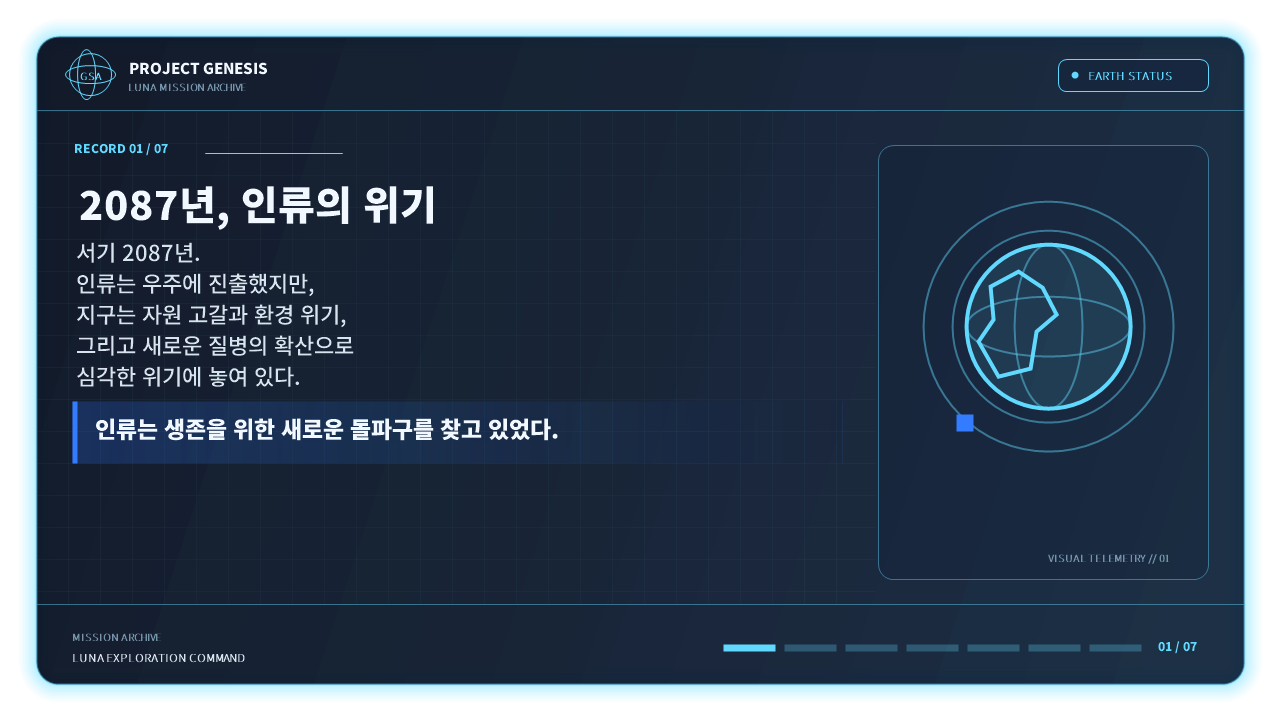
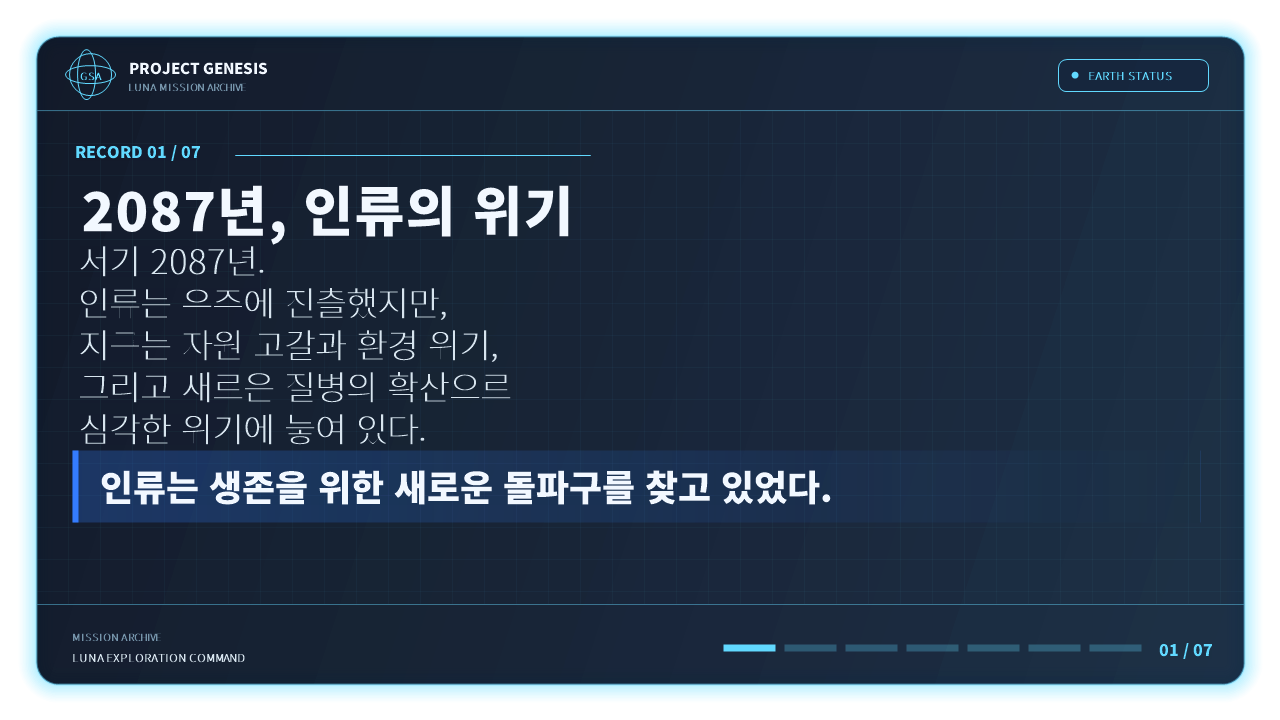
feat: enlarge Genesis story panel text

diff --git a/apps/zep-studio/story-panel-renderer.css b/apps/zep-studio/story-panel-renderer.css
@@ -2,6 +2,6 @@
 :root{--accent:#62d9ff;--accent2:#347cff;--alert:#ff7b55;--glow:rgba(77,195,255,.32);--panel:rgba(3,12,28,.93);--panel2:rgba(7,24,47,.9);--line:rgba(102,217,255,.34);--text:#f2f8ff;--muted:#9cb5c9}
 *{box-sizing:border-box}html,body{width:1280px;height:720px;margin:0;overflow:hidden;background:transparent;font-family:Pretendard,Arial,sans-serif}body{padding:36px}.story-panel{position:relative;width:1208px;height:648px;overflow:hidden;border:1px solid var(--line);border-radius:22px;background:linear-gradient(135deg,var(--panel),rgba(4,17,37,.87) 62%,var(--panel2));color:var(--text);box-shadow:0 0 0 1px rgba(147,224,255,.06) inset,0 22px 70px rgba(0,0,0,.32),0 0 42px var(--glow);isolation:isolate}.story-panel::before{content:'';position:absolute;inset:0;z-index:-2;background:linear-gradient(rgba(117,208,255,.028) 1px,transparent 1px),linear-gradient(90deg,rgba(117,208,255,.028) 1px,transparent 1px);background-size:32px 32px;mask-image:linear-gradient(90deg,#000,transparent 78%)}.story-panel::after{content:'';position:absolute;width:520px;height:520px;right:-150px;top:-210px;z-index:-1;border:1px solid rgba(105,218,255,.12);border-radius:50%;box-shadow:0 0 90px var(--glow)}.tone-red{--accent:#ff7567;--accent2:#ff334e;--alert:#ffb264;--glow:rgba(255,55,70,.28);--line:rgba(255,100,103,.38);--panel:rgba(24,4,13,.94);--panel2:rgba(40,5,16,.89)}.tone-amber{--accent:#64d8ff;--accent2:#ff9b43;--alert:#ffad52;--glow:rgba(255,143,54,.22)}.tone-mixed{--accent:#65dfff;--accent2:#ff5e55;--alert:#ff7761;--glow:rgba(80,166,255,.26)}.tone-bright{--accent:#d8f8ff;--accent2:#67caff;--alert:#fff;--glow:rgba(156,234,255,.46);--panel:rgba(4,20,40,.88);--panel2:rgba(14,62,89,.84);--line:rgba(202,246,255,.62)}
 .panel-header{height:74px;display:flex;align-items:center;justify-content:space-between;padding:0 34px;border-bottom:1px solid var(--line);background:rgba(3,10,22,.34)}.agency{display:flex;align-items:center;gap:14px}.agency-mark{position:relative;display:grid;place-items:center;width:42px;height:42px;border:1px solid var(--accent);border-radius:50%;color:var(--accent);font-size:9px;font-weight:900;letter-spacing:.08em;box-shadow:0 0 20px var(--glow)}.agency-mark::before,.agency-mark::after{content:'';position:absolute;width:50px;height:18px;border:1px solid var(--accent);border-radius:50%;opacity:.48;transform:rotate(28deg)}.agency-mark::after{transform:rotate(-28deg)}.agency b,.agency small{display:block}.agency b{font-size:14px;letter-spacing:.12em}.agency small{margin-top:3px;color:#6e90aa;font-size:9px;letter-spacing:.16em}.system-status{display:flex;align-items:center;gap:9px;padding:8px 12px;border:1px solid var(--line);border-radius:8px;background:rgba(4,15,29,.72);color:var(--accent);font-size:10px;font-weight:800;letter-spacing:.12em}.system-status i{width:7px;height:7px;border-radius:50%;background:var(--accent2);box-shadow:0 0 12px var(--accent2);animation:pulse 1.6s infinite}@keyframes pulse{50%{opacity:.38}}
-.panel-main{display:grid;grid-template-columns:minmax(0,1fr) 330px;gap:30px;height:494px;padding:28px 36px 22px}.copy{min-width:0}.record-row{display:flex;align-items:center;gap:13px;color:var(--accent);font-size:12px;font-weight:850;letter-spacing:.16em}.record-row::after{content:'';height:1px;max-width:170px;flex:1;background:linear-gradient(90deg,var(--accent),transparent);opacity:.6}.copy h1{margin:12px 0 17px;font-size:40px;line-height:1.08;letter-spacing:-.045em}.body-copy{display:flex;max-width:760px;flex-direction:column;gap:3px}.body-copy span{display:block;color:#d6e3ee;font-size:22px;font-weight:540;line-height:1.35;letter-spacing:-.018em;word-break:keep-all}.highlight{display:flex;align-items:flex-start;min-height:58px;flex-direction:column;justify-content:center;margin-top:16px;padding:10px 18px;border-left:4px solid var(--accent2);background:linear-gradient(90deg,rgba(48,136,205,.18),transparent);color:#fff;font-size:23px;font-weight:790;line-height:1.3;word-break:keep-all;text-shadow:0 0 18px var(--glow)}.highlight span{display:block}.story-panel.tone-red::before{background:repeating-linear-gradient(0deg,rgba(255,55,70,.035) 0,rgba(255,55,70,.035) 2px,transparent 2px,transparent 7px)}.tone-red .highlight{background:linear-gradient(90deg,rgba(255,35,65,.24),transparent)}.tone-mixed .highlight{background:linear-gradient(90deg,rgba(255,65,55,.22),rgba(45,132,210,.08),transparent)}.tone-bright .highlight{font-size:30px;letter-spacing:.14em;background:linear-gradient(90deg,rgba(132,225,255,.25),transparent)}
+.panel-main{display:block;height:494px;padding:23px 36px 16px}.copy{min-width:0;width:100%}.record-row{display:flex;align-items:center;gap:16px;color:var(--accent);font-size:16px;font-weight:850;letter-spacing:.15em}.record-row::after{content:'';height:1px;max-width:360px;flex:1;background:linear-gradient(90deg,var(--accent),transparent);opacity:.6}.copy h1{margin:9px 0 11px;font-size:54px;line-height:1.04;letter-spacing:-.045em}.body-copy{display:flex;width:100%;flex-direction:column;gap:0}.body-copy span{display:block;color:#d6e3ee;font-size:34px;font-weight:600;line-height:1.24;letter-spacing:-.03em;word-break:keep-all}.highlight{display:flex;align-items:flex-start;min-height:72px;flex-direction:column;justify-content:center;margin-top:9px;padding:9px 20px;border-left:6px solid var(--accent2);background:linear-gradient(90deg,rgba(48,136,205,.22),transparent 90%);color:#fff;font-size:36px;font-weight:820;line-height:1.2;word-break:keep-all;text-shadow:0 0 18px var(--glow)}.highlight span{display:block}.story-panel.tone-red::before{background:repeating-linear-gradient(0deg,rgba(255,55,70,.035) 0,rgba(255,55,70,.035) 2px,transparent 2px,transparent 7px)}.tone-red .highlight{background:linear-gradient(90deg,rgba(255,35,65,.24),transparent)}.tone-mixed .highlight{background:linear-gradient(90deg,rgba(255,65,55,.22),rgba(45,132,210,.08),transparent)}.tone-bright .highlight{font-size:44px;letter-spacing:.11em;background:linear-gradient(90deg,rgba(132,225,255,.25),transparent)}
 .visual{position:relative;display:grid;place-items:center;min-width:0;border:1px solid rgba(108,204,255,.14);border-radius:15px;background:radial-gradient(circle at 50% 45%,rgba(65,162,220,.13),rgba(1,8,19,.3) 62%)}.visual::before,.visual::after{content:'';position:absolute;border:1px solid var(--line);border-radius:50%;opacity:.32}.visual::before{width:260px;height:260px}.visual::after{width:210px;height:210px}.visual svg{position:relative;z-index:1;width:286px;height:286px;filter:drop-shadow(0 0 16px var(--glow))}.visual .stroke{fill:none;stroke:var(--accent);stroke-width:4;stroke-linecap:round;stroke-linejoin:round}.visual .thin{fill:none;stroke:var(--accent);stroke-width:2;opacity:.58}.visual .fill{fill:var(--accent);opacity:.13}.visual .hot{fill:var(--accent2);stroke:var(--alert);stroke-width:2}.visual .soft{fill:var(--accent);opacity:.55}.visual-label{position:absolute;right:13px;bottom:11px;color:#517995;font-size:8px;font-weight:800;letter-spacing:.16em}
 .panel-footer{height:80px;display:grid;grid-template-columns:1fr auto;align-items:center;gap:24px;padding:0 34px;border-top:1px solid var(--line);background:rgba(2,9,20,.38)}.meta small,.meta b{display:block}.meta small{color:#557890;font-size:8px;font-weight:800;letter-spacing:.18em}.meta b{margin-top:5px;color:#9fb7c8;font-size:10px;letter-spacing:.08em}.progress{display:flex;align-items:center;gap:7px}.progress span{width:54px;height:7px;border:1px solid rgba(106,199,245,.2);border-radius:99px;background:rgba(15,47,70,.62)}.progress span.done{border-color:var(--accent);background:linear-gradient(90deg,var(--accent2),var(--accent));box-shadow:0 0 10px var(--glow)}.step-label{margin-left:8px;color:var(--accent);font-size:12px;font-weight:900;letter-spacing:.12em}

diff --git a/apps/zep-studio/story-panel-renderer.js b/apps/zep-studio/story-panel-renderer.js
@@ -18,7 +18,7 @@
   document.documentElement.style.setProperty('color-scheme', 'dark');
   document.body.innerHTML = `<main class="story-panel tone-${panel.tone}">
     <header class="panel-header"><div class="agency"><span class="agency-mark">GSA</span><span><b>PROJECT GENESIS</b><small>LUNA MISSION ARCHIVE</small></span></div><span class="system-status"><i></i>${panel.header}</span></header>
-    <section class="panel-main"><div class="copy"><div class="record-row">${panel.subheader}</div><h1>${panel.title}</h1><div class="body-copy">${lines(panel.body)}</div><div class="highlight">${lines(panel.highlight)}</div></div><aside class="visual">${illustrations[panel.visual]}<span class="visual-label">VISUAL TELEMETRY // ${String(panel.step).padStart(2, '0')}</span></aside></section>
+    <section class="panel-main"><div class="copy"><div class="record-row">${panel.subheader}</div><h1>${panel.title}</h1><div class="body-copy">${lines(panel.body)}</div><div class="highlight">${lines(panel.highlight)}</div></div></section>
     <footer class="panel-footer"><div class="meta"><small>MISSION ARCHIVE</small><b>${panel.footer}</b></div><div class="progress">${Array.from({ length: 7 }, (_, index) => `<span class="${index < panel.step ? 'done' : ''}"></span>`).join('')}<b class="step-label">${String(panel.step).padStart(2, '0')} / 07</b></div></footer>
   </main>`;
   document.fonts.ready.then(() => { document.documentElement.dataset.ready = 'true'; });
